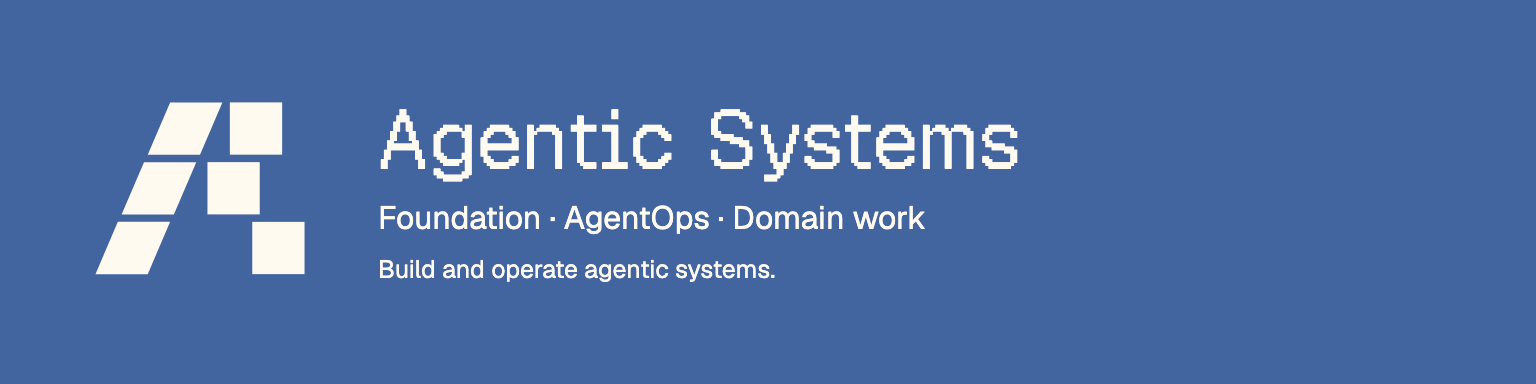
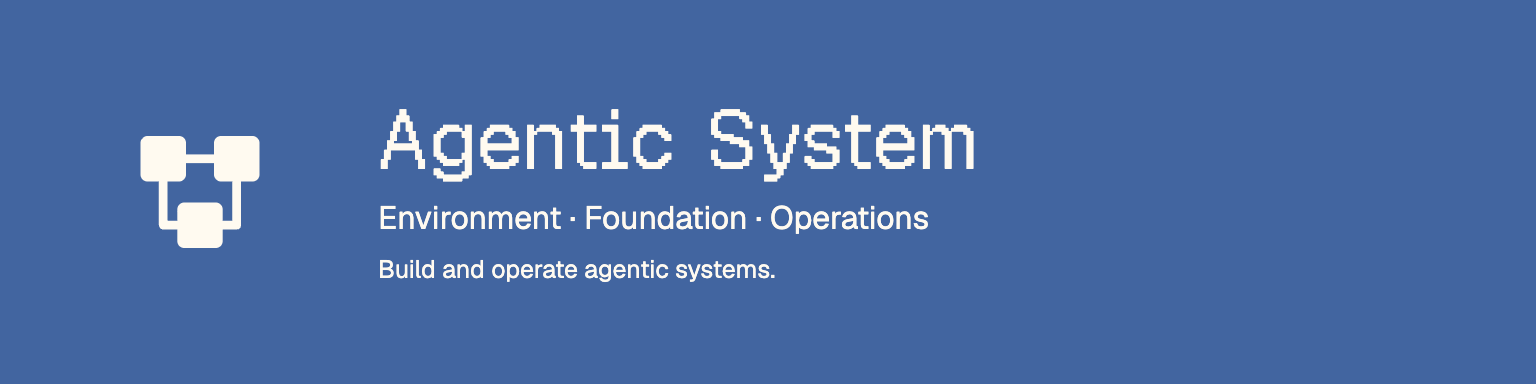
Use the connected-module Agentic System mark

Changed region(s): [[0.0625, 0.25, 0.2188, 0.7188], [0.25, 0.5312, 0.625, 0.625], [0.625, 0.3125, 0.6875, 0.4375]]

diff --git a/assets/branding/banner.html b/assets/branding/banner.html
@@ -2,7 +2,7 @@
 <html lang="en">
 <meta charset="utf-8">
 <meta name="viewport" content="width=device-width,initial-scale=1">
-<title>Agentic Systems — Arc’ It AI</title>
+<title>Agentic System</title>
 <style>
   @font-face { font-family: Geist; src: url("fonts/geist-sans-variable.woff2"); }
   @font-face { font-family: Pixel; src: url("fonts/geist-pixel-square.woff2"); }
@@ -14,11 +14,11 @@
   p { margin: 0; font: 32px/1.45 Geist, sans-serif; }
   p + p { margin-top: 10px; font-size: 25px; }
 </style>
-<main aria-label="Agentic Systems. Foundation, AgentOps, domain work and evaluation. A method assembled from native tools.">
-  <img src="arcitai-mark.svg" alt="Arc’ It AI">
+<main aria-label="Agentic System. Environment, foundation and operations for capable agents.">
+  <img src="agentic-system-icon.svg" alt="Agentic System: three connected modules">
   <div>
-    <h1>Agentic Systems</h1>
-    <p>Foundation · AgentOps · Domain work</p>
+    <h1>Agentic System</h1>
+    <p>Environment · Foundation · Operations</p>
     <p>Build and operate agentic systems.</p>
   </div>
 </main>

diff --git a/assets/branding/README.md b/assets/branding/README.md
@@ -1,18 +1,21 @@
 # Brand assets
 
-Revision: 0.1.34 · Updated: 2026-11-06
+Revision: 0.2.2 · Updated: 2026-11-20
+
+`agentic-system-icon.svg` is the editable mark: three connected cream modules
+on a rounded blue square. It is adopted from the Agentic System card under
+Current work on [Gustav Online](https://gustavonline.com/), originally at
+`/assets/project-marks/agentic-systems.svg`. The PNG is a 1024 × 1024 export
+of that vector. Use the same mark for the Notion guide and repository presentation.
+These files are presentation assets and are not included in staged skills.
 
 `banner.html` is the editable source for `agentic-system-banner.png` (1536 × 384).
 Serve this directory locally, wait for `document.fonts.ready`, and capture the
-`main` element at its native size. The README scales the image down for display.
+`main` element at its native size. The banner uses the connected-module mark.
 
-The unchanged mark, Geist fonts and blue `#4265a0` hover accent come from
-[Arc’ It AI’s website at 46e5566](https://github.com/arcitai/arcitai-website/tree/46e5566e5f4d1f89fc36df43cd5a35c79ff504f5).
-The source's [license notice](https://github.com/arcitai/arcitai-website/blob/46e5566e5f4d1f89fc36df43cd5a35c79ff504f5/README.md#license)
-excludes brand names and logos from its software license. The Arc’ It AI name
-and logo, including their use in this banner, are not licensed for reuse under
-Agentic Systems' MIT license. The Geist fonts retain their separate license in
-`fonts/LICENSE.txt`. These presentation assets are not included in the staged
-Agentic Systems skills.
-
-`agentic-system-icon.svg` is the editable source of the transparent blue agentic system glyph for the public Notion guide; `agentic-system-icon.png` is its native browser export. It matches the owner's rounded gradient Notion icon style. It is a presentation asset under the same branding exception, not part of a staged skill.
+The retained `arcitai-mark.svg` is historical Arc’ It AI artwork from
+[its website at 46e5566](https://github.com/arcitai/arcitai-website/tree/46e5566e5f4d1f89fc36df43cd5a35c79ff504f5).
+That source’s [license notice](https://github.com/arcitai/arcitai-website/blob/46e5566e5f4d1f89fc36df43cd5a35c79ff504f5/README.md#license)
+excludes Arc’ It AI brand names and logos from its software license. Those retained
+assets keep their separate terms. The current connected-module icon is separate
+from that mark. Geist fonts retain their license in `fonts/LICENSE.txt`.

diff --git a/README.md b/README.md
@@ -1,6 +1,8 @@
 # Agentic System
 
-Revision: 0.2.2 · Updated: 2026-11-14
+<img src="assets/branding/agentic-system-icon.svg" alt="Agentic System: three connected modules" width="56" height="56">
+
+Revision: 0.2.2 · Updated: 2026-11-20
 
 Build a good environment for capable agents to do useful work.
 
